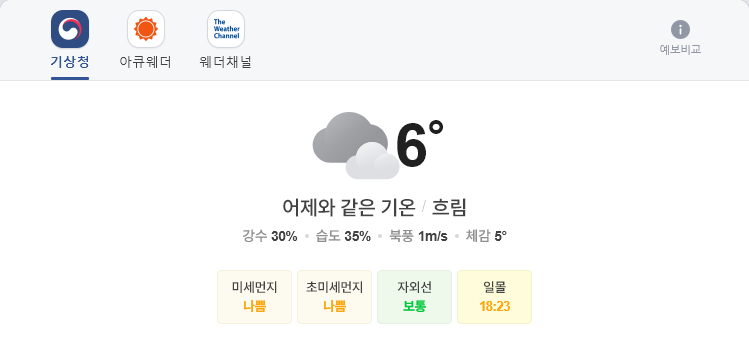
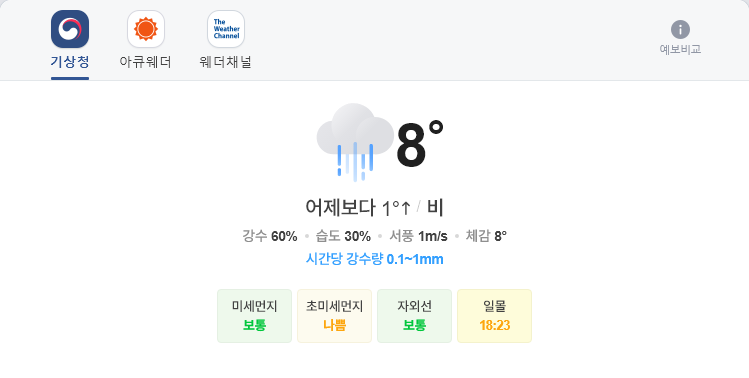
update result

diff --git a/README.md b/README.md
@@ -1,5 +1,5 @@
-##  2021-02-25 12:07:27   목요일 
-##### 날씨   -   어제와 같은 기온흐림  
+##  2021-02-25 16:02:45   목요일 
+##### 날씨   -   어제보다 1° 높아요비  
 <center><img src="../img/naver_weather_week.png"></center>
 ----
 ----
@@ -16,14 +16,14 @@
 <tr align = "right" > <td>DOW</td><td>31,961.86</td><td>424.51</td><td><font size="3" color="red" >1.35%</font></td><td><font size="3" color="black">0</font></td><td><font size="3" color="black">0</font></td><td>0</td>  </tr>
 <tr align = "right" > <td>NASDAQ</td><td>13,597.97</td><td>132.77</td><td><font size="3" color="red" >0.99%</font></td><td><font size="3" color="black">0</font></td><td><font size="3" color="black">0</font></td><td>0</td>  </tr>
 <tr align = "right" > <td>S&P</td><td>3,925.43</td><td>44.06</td><td><font size="3" color="red" >1.14%</font></td><td><font size="3" color="black">0</font></td><td><font size="3" color="black">0</font></td><td>0</td>  </tr>
-<tr align = "right" > <td>SHANHAI</td><td>3,607.95</td><td>43.87</td><td><font size="3" color="red" >1.23%</font></td><td><font size="3" color="black">0</font></td><td><font size="3" color="black">0</font></td><td>0</td>  </tr>
-<tr align = "right" > <td>INDIA</td><td>50,781.69</td><td>103.0</td><td><font size="3" color="red" >2.07%</font></td><td><font size="3" color="black">0</font></td><td><font size="3" color="black">0</font></td><td>0</td>  </tr>
+<tr align = "right" > <td>SHANHAI</td><td>3,580.93</td><td>16.85</td><td><font size="3" color="red" >0.47%</font></td><td><font size="3" color="black">0</font></td><td><font size="3" color="black">0</font></td><td>0</td>  </tr>
+<tr align = "right" > <td>INDIA</td><td>51,030.33</td><td>791.83</td><td><font size="3" color="red" >1.58%</font></td><td><font size="3" color="black">0</font></td><td><font size="3" color="black">0</font></td><td>0</td>  </tr>
 </table>
 ----
 ##### 시장
 <table border="1" bordercolor="blue" align = "center" >
 <tr align = "right" > <td>Item</td><td>Price</td><td>Diff</td><td>Rate</td><td>Buy</td><td>Sell</td><td>...</td>  </tr>
-<tr align = "right" > <td>USD</td><td>1,109.0</td><td>0.5</td><td><font size="3" color="red">0.05%</font></td><td><font size="3" color="orangered">1,110</font></td><td><font size="3" color="black">0</font></td><td>0</td>  </tr>
+<tr align = "right" > <td>USD</td><td>1,108.0</td><td>-1.0</td><td><font size="3" color="blue">-0.09%</font></td><td><font size="3" color="orangered">1,110</font></td><td><font size="3" color="black">0</font></td><td>0</td>  </tr>
 <tr align = "right" > <td>WTI</td><td>63.22</td><td>1.55</td><td><font size="3" color="red">2.51%</font></td><td><font size="3" color="black">29.0</font></td><td><font size="3" color="black">0</font></td><td>0</td>  </tr>
 <tr align = "right" > <td>GOLD</td><td>1,796.0</td><td>-8.2</td><td><font size="3" color="blue">-0.45%</font></td><td><font size="3" color="black">0</font></td><td><font size="3" color="black">0</font></td><td>0</td>  </tr>
 </table>
@@ -31,26 +31,26 @@
 ##### 주가
 <table border="1" bordercolor="blue" align = "center" >
 <tr align = "right" > <td>Item</td><td>Price</td><td>Diff</td><td>Rate</td><td>Purchased</td><td>Sell</td><td>Buy</td>  </tr>
-<tr align = "right" > <td>한국 전력</td><td>23,250</td><td>100</td><td><font size="3" color="red">0.43%</font></td><td>25,720</td><td><font size="3" color="black">27,700</font></td><td><font size="3" color="black">20,700</font></td>  </tr>
-<tr align = "right" > <td>삼성엔지니어.</td><td>13,200</td><td>200</td><td><font size="3" color="red">1.54%</font></td><td>18,935</td><td><font size="3" color="black">20,000</font></td><td><font size="3" color="black">8,000</font></td>  </tr>
-<tr align = "right" > <td>CJ CGV</td><td>28,200</td><td>400</td><td><font size="3" color="red">1.44%</font></td><td>34,895</td><td><font size="3" color="black">36,000</font></td><td><font size="3" color="black">0</font></td>  </tr>
-<tr align = "right" > <td>아모레퍼시픽</td><td>238,000</td><td>6,000</td><td><font size="3" color="red">2.59%</font></td><td>235,350</td><td><font size="3" color="black">240,000</font></td><td><font size="3" color="black">130,000</font></td>  </tr>
-<tr align = "right" > <td>한화</td><td>30,150</td><td>500</td><td><font size="3" color="red">1.69%</font></td><td>25,550</td><td><font size="3" color="black">26,250</font></td><td><font size="3" color="black">26,250</font></td>  </tr>
-<tr align = "right" > <td>NAVER</td><td>375,500</td><td>1,500</td><td><font size="3" color="red">0.4%</font></td><td>147,200</td><td><font size="3" color="black">386,000</font></td><td><font size="3" color="black">286,000</font></td>  </tr>
-<tr align = "right" > <td>LG 화학우</td><td>408,000</td><td>-1,000</td><td><font size="3" color="blue">-0.24%</font></td><td>202,490</td><td><font size="3" color="black">384,000</font></td><td><font size="3" color="black">384,000</font></td>  </tr>
-<tr align = "right" > <td>스튜디오드래.</td><td>96,300</td><td>1,000</td><td><font size="3" color="red">1.05%</font></td><td>81,243</td><td><font size="3" color="black">85,200</font></td><td><font size="3" color="black">85,200</font></td>  </tr>
+<tr align = "right" > <td>한국 전력</td><td>23,350</td><td>200</td><td><font size="3" color="red">0.86%</font></td><td>25,720</td><td><font size="3" color="black">27,700</font></td><td><font size="3" color="black">20,700</font></td>  </tr>
+<tr align = "right" > <td>삼성엔지니어.</td><td>13,300</td><td>300</td><td><font size="3" color="red">2.31%</font></td><td>18,935</td><td><font size="3" color="black">20,000</font></td><td><font size="3" color="black">8,000</font></td>  </tr>
+<tr align = "right" > <td>CJ CGV</td><td>28,400</td><td>600</td><td><font size="3" color="red">2.16%</font></td><td>34,895</td><td><font size="3" color="black">36,000</font></td><td><font size="3" color="black">0</font></td>  </tr>
+<tr align = "right" > <td>아모레퍼시픽</td><td>239,000</td><td>7,000</td><td><font size="3" color="red">3.02%</font></td><td>235,350</td><td><font size="3" color="black">240,000</font></td><td><font size="3" color="black">130,000</font></td>  </tr>
+<tr align = "right" > <td>한화</td><td>30,550</td><td>900</td><td><font size="3" color="red">3.04%</font></td><td>25,550</td><td><font size="3" color="black">26,250</font></td><td><font size="3" color="black">26,250</font></td>  </tr>
+<tr align = "right" > <td>NAVER</td><td>383,000</td><td>9,000</td><td><font size="3" color="red">2.41%</font></td><td>147,200</td><td><font size="3" color="black">386,000</font></td><td><font size="3" color="black">286,000</font></td>  </tr>
+<tr align = "right" > <td>LG 화학우</td><td>415,000</td><td>6,000</td><td><font size="3" color="red">1.47%</font></td><td>202,490</td><td><font size="3" color="black">384,000</font></td><td><font size="3" color="black">384,000</font></td>  </tr>
+<tr align = "right" > <td>스튜디오드래.</td><td>98,300</td><td>3,000</td><td><font size="3" color="red">3.15%</font></td><td>81,243</td><td><font size="3" color="black">85,200</font></td><td><font size="3" color="black">85,200</font></td>  </tr>
 <tr align = "right" > <td>QV미국IT</td><td>25,900</td><td>245</td><td><font size="3" color="red">0.95%</font></td><td>0</td><td><font size="3" color="black">30,000</font></td><td><font size="3" color="black">20,000</font></td>  </tr>
-<tr align = "right" > <td>삼성 전자우</td><td>73,400</td><td>700</td><td><font size="3" color="red">0.96%</font></td><td>48,250</td><td><font size="3" color="black">56,000</font></td><td><font size="3" color="black">45,000</font></td>  </tr>
-<tr align = "right" > <td>LS</td><td>71,100</td><td>700</td><td><font size="3" color="red">0.99%</font></td><td>71,900</td><td><font size="3" color="black">82,000</font></td><td><font size="3" color="black">60,000</font></td>  </tr>
-<tr align = "right" > <td>한화에어로스.</td><td>38,500</td><td>400</td><td><font size="3" color="red">1.05%</font></td><td>25,700</td><td><font size="3" color="black">30,000</font></td><td><font size="3" color="black">24,000</font></td>  </tr>
-<tr align = "right" > <td>카카오</td><td>473,500</td><td>0</td><td><font size="3" color="black">0.0%</font></td><td>405,500</td><td><font size="3" color="black">440,000</font></td><td><font size="3" color="black">400,000</font></td>  </tr>
-<tr align = "right" > <td>호텔 신라</td><td>83,100</td><td>200</td><td><font size="3" color="red">0.24%</font></td><td>72,800</td><td><font size="3" color="black">100,000</font></td><td><font size="3" color="black">70,000</font></td>  </tr>
-<tr align = "right" > <td>S-Oil</td><td>87,200</td><td>3,500</td><td><font size="3" color="red">4.18%</font></td><td>62,842</td><td><font size="3" color="black">100,000</font></td><td><font size="3" color="black">50,000</font></td>  </tr>
-<tr align = "right" > <td>LG전자</td><td>152,500</td><td>2,500</td><td><font size="3" color="red">1.67%</font></td><td>82,022</td><td><font size="3" color="black">100,000</font></td><td><font size="3" color="black">60,000</font></td>  </tr>
-<tr align = "right" > <td>KT&G</td><td>79,300</td><td>600</td><td><font size="3" color="red">0.76%</font></td><td>80,400</td><td><font size="3" color="black">100,000</font></td><td><font size="3" color="black">70,000</font></td>  </tr>
-<tr align = "right" > <td>지역난방공사</td><td>37,350</td><td>-50</td><td><font size="3" color="blue">-0.13%</font></td><td>43,590</td><td><font size="3" color="black">60,000</font></td><td><font size="3" color="black">30,000</font></td>  </tr>
-<tr align = "right" > <td>KOEDX은행</td><td>6,480</td><td>110</td><td><font size="3" color="red">1.73%</font></td><td>5,178</td><td><font size="3" color="black">6,225</font></td><td><font size="3" color="black">6,225</font></td>  </tr>
-<tr align = "right" > <td>글로벌럭셔리</td><td>16,210</td><td>315</td><td><font size="3" color="red">1.98%</font></td><td>15,260</td><td><font size="3" color="black">20,000</font></td><td><font size="3" color="black">10,000</font></td>  </tr>
-<tr align = "right" > <td>한국금융지주</td><td>91,500</td><td>0</td><td><font size="3" color="black">0.0%</font></td><td>0</td><td><font size="3" color="black">82,000</font></td><td><font size="3" color="black">60,000</font></td>  </tr>
+<tr align = "right" > <td>삼성 전자우</td><td>74,100</td><td>1,400</td><td><font size="3" color="red">1.93%</font></td><td>48,250</td><td><font size="3" color="black">56,000</font></td><td><font size="3" color="black">45,000</font></td>  </tr>
+<tr align = "right" > <td>LS</td><td>72,500</td><td>2,100</td><td><font size="3" color="red">2.98%</font></td><td>71,900</td><td><font size="3" color="black">82,000</font></td><td><font size="3" color="black">60,000</font></td>  </tr>
+<tr align = "right" > <td>한화에어로스.</td><td>38,900</td><td>800</td><td><font size="3" color="red">2.1%</font></td><td>25,700</td><td><font size="3" color="black">30,000</font></td><td><font size="3" color="black">24,000</font></td>  </tr>
+<tr align = "right" > <td>카카오</td><td>484,500</td><td>11,000</td><td><font size="3" color="red">2.32%</font></td><td>405,500</td><td><font size="3" color="black">440,000</font></td><td><font size="3" color="black">400,000</font></td>  </tr>
+<tr align = "right" > <td>호텔 신라</td><td>83,400</td><td>500</td><td><font size="3" color="red">0.6%</font></td><td>72,800</td><td><font size="3" color="black">100,000</font></td><td><font size="3" color="black">70,000</font></td>  </tr>
+<tr align = "right" > <td>S-Oil</td><td>88,000</td><td>4,300</td><td><font size="3" color="red">5.14%</font></td><td>62,842</td><td><font size="3" color="black">100,000</font></td><td><font size="3" color="black">50,000</font></td>  </tr>
+<tr align = "right" > <td>LG전자</td><td>154,000</td><td>4,000</td><td><font size="3" color="red">2.67%</font></td><td>82,022</td><td><font size="3" color="black">100,000</font></td><td><font size="3" color="black">60,000</font></td>  </tr>
+<tr align = "right" > <td>KT&G</td><td>79,800</td><td>1,100</td><td><font size="3" color="red">1.4%</font></td><td>80,400</td><td><font size="3" color="black">100,000</font></td><td><font size="3" color="black">70,000</font></td>  </tr>
+<tr align = "right" > <td>지역난방공사</td><td>37,500</td><td>100</td><td><font size="3" color="red">0.27%</font></td><td>43,590</td><td><font size="3" color="black">60,000</font></td><td><font size="3" color="black">30,000</font></td>  </tr>
+<tr align = "right" > <td>KOEDX은행</td><td>6,525</td><td>155</td><td><font size="3" color="red">2.43%</font></td><td>5,178</td><td><font size="3" color="black">6,225</font></td><td><font size="3" color="black">6,225</font></td>  </tr>
+<tr align = "right" > <td>글로벌럭셔리</td><td>16,205</td><td>310</td><td><font size="3" color="red">1.95%</font></td><td>15,260</td><td><font size="3" color="black">20,000</font></td><td><font size="3" color="black">10,000</font></td>  </tr>
+<tr align = "right" > <td>한국금융지주</td><td>92,000</td><td>500</td><td><font size="3" color="red">0.55%</font></td><td>0</td><td><font size="3" color="black">82,000</font></td><td><font size="3" color="black">60,000</font></td>  </tr>
 </table>
 ----
